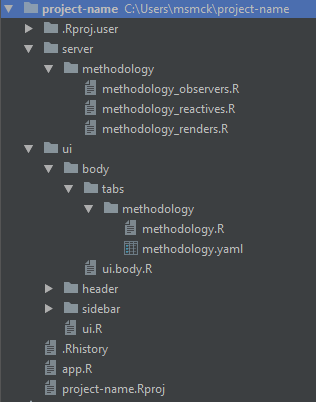
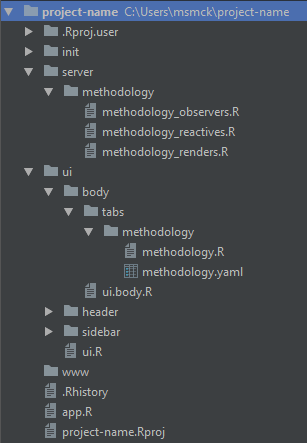
add initalization directory for static object definition

Changed region(s): [[0.0, 0.0, 0.9674, 0.3582], [0.0586, 0.3582, 0.7915, 1.0], [0.1173, 0.6866, 0.1759, 0.7761]]

diff --git a/README.md b/README.md
@@ -174,6 +174,14 @@ The function is smart and will both ask you to confirm deletion and detect if th
 
 Notice the function notified that there were child tabs.
 
+#### 8. Static Variables, Functions & Data
+
+To keep things organized we put one time library loads, variable definitions, function definitions and data loads in a separate place. The initialization will create the `init/` directory with the following files:
+
+![init files](www/app/06-init-dir.PNG)
+
+Anything that needs to be run only once or needs to be available in both the ui and server side code should be put in the appropriate files.
+
 #### 8. Tips
 
 Using RStudio's "Go to file/function" abilities makes moving around
